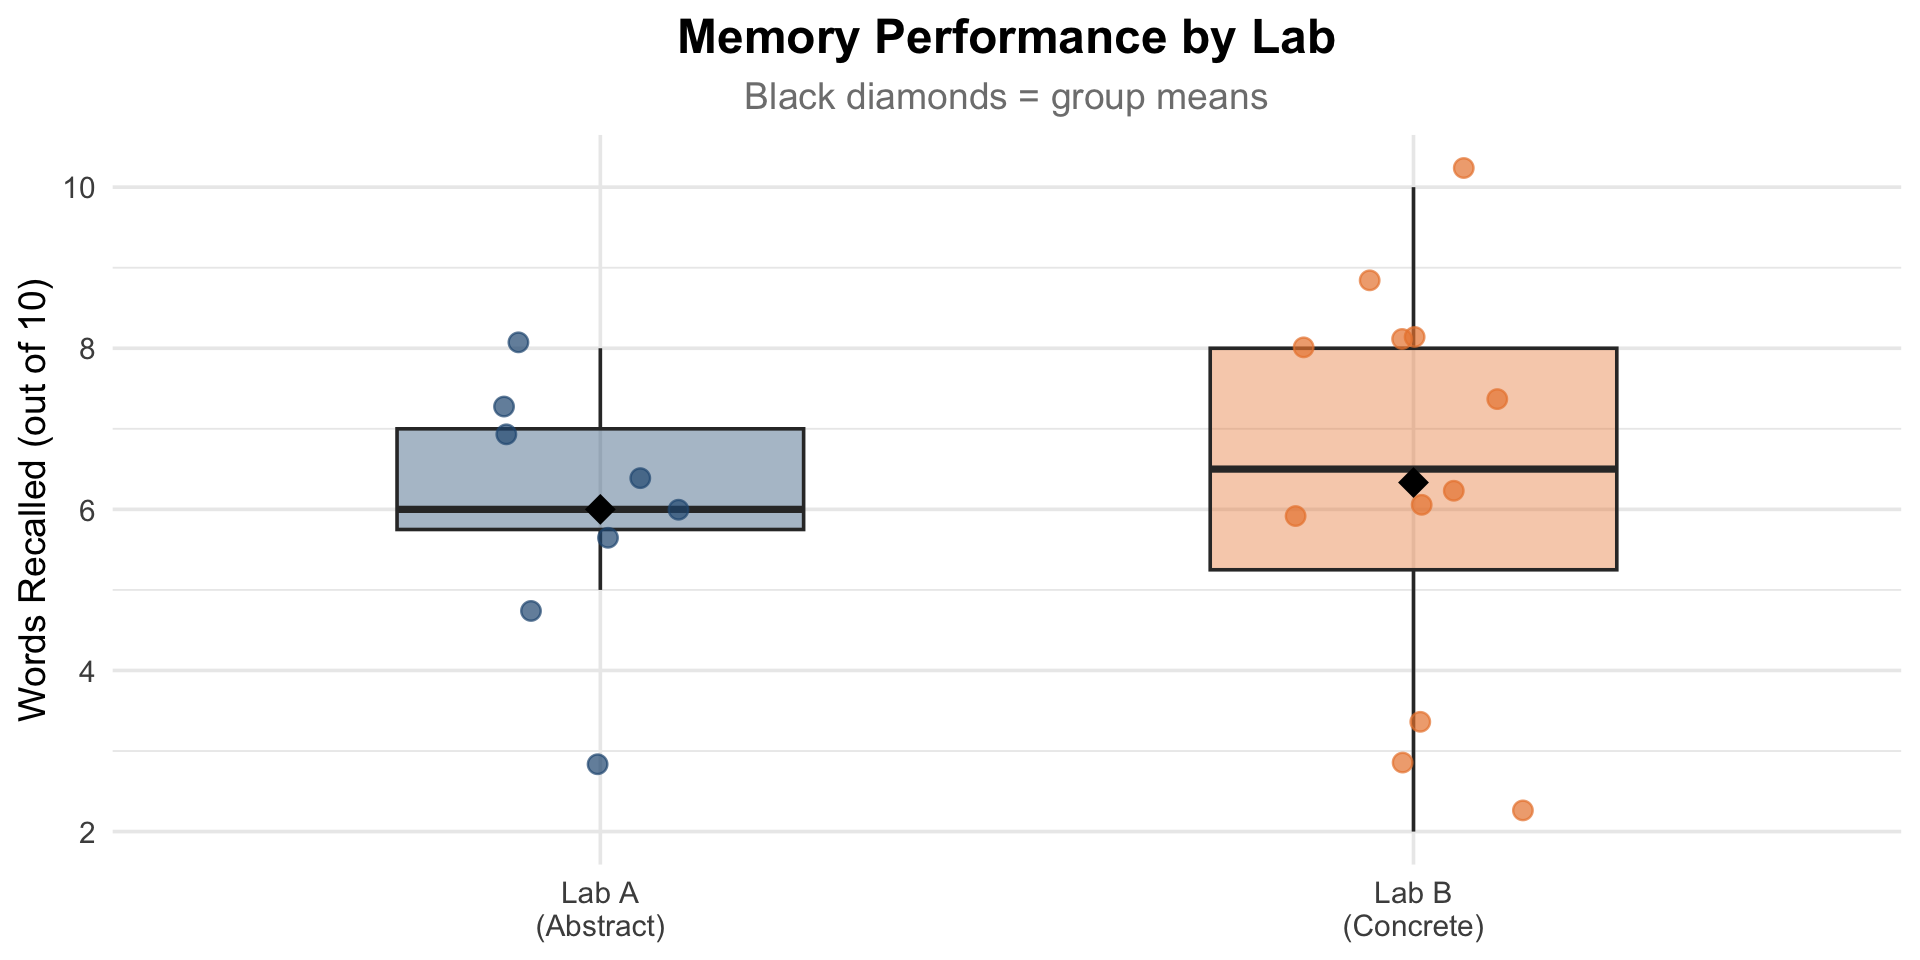
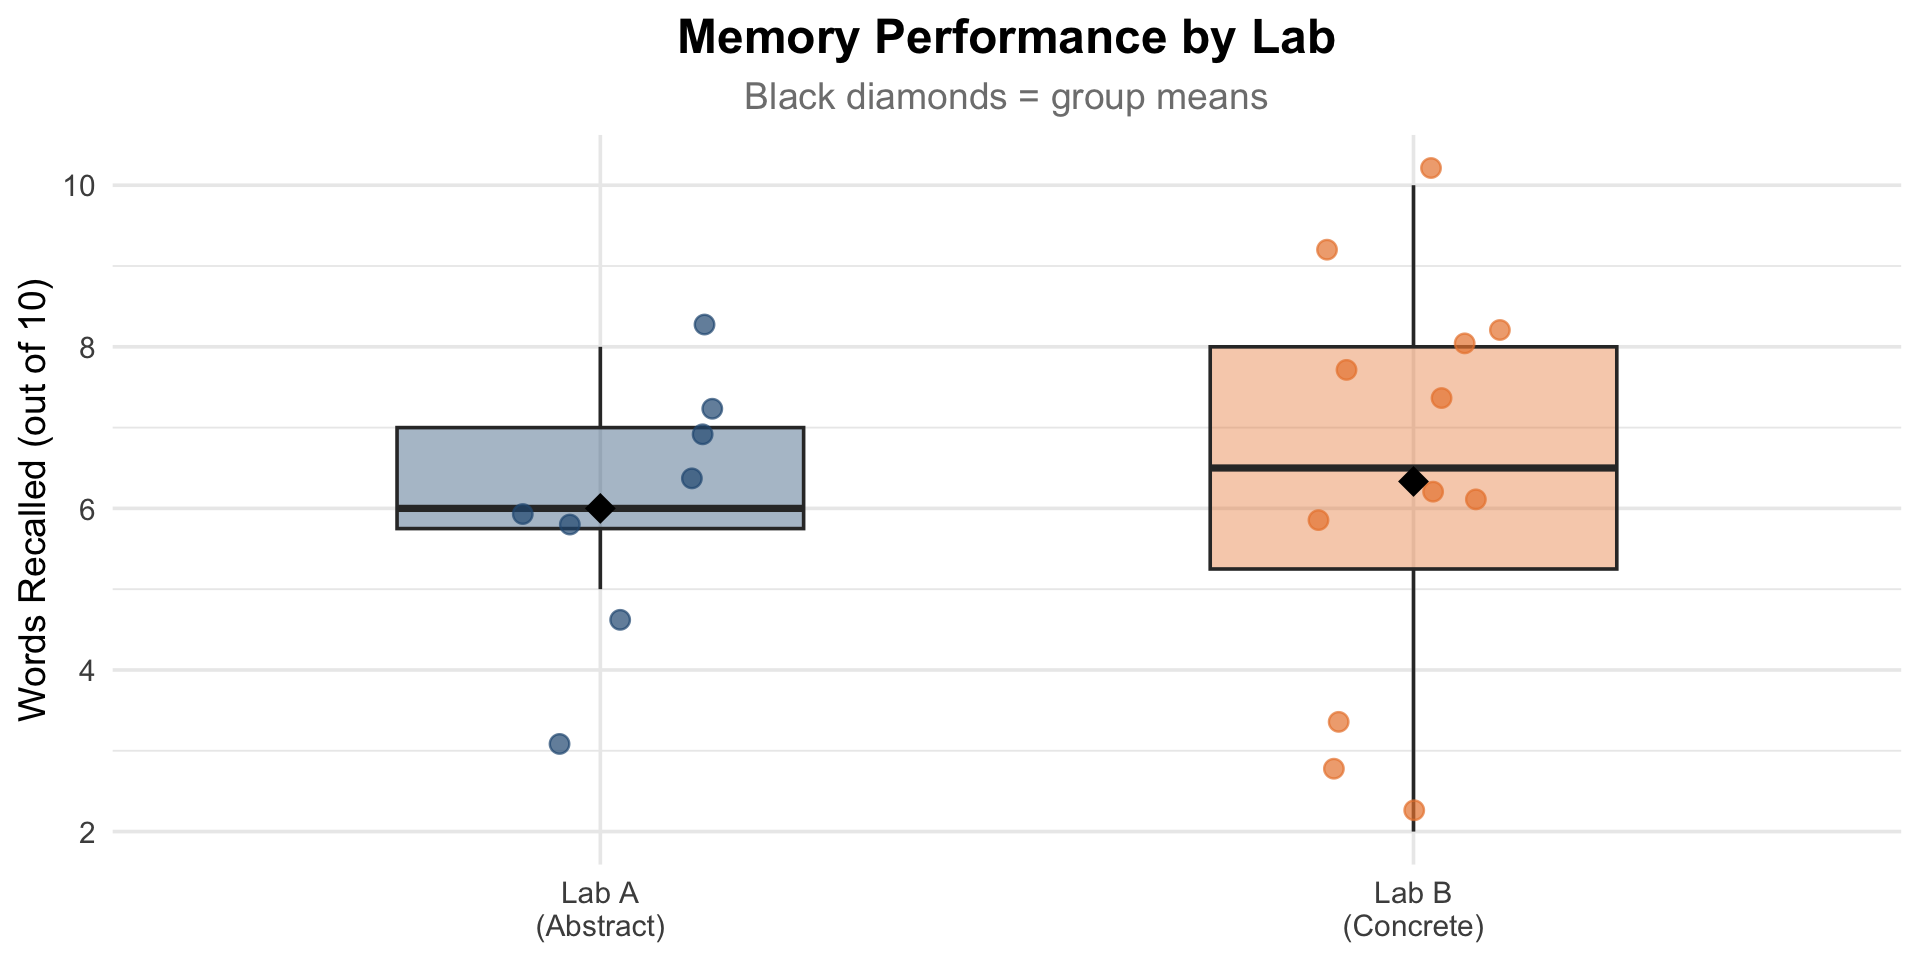
update imagery

diff --git a/docs/week12/lab/instructor-slides.html b/docs/week12/lab/instructor-slides.html
@@ -218,7 +218,7 @@ Gordon Wright
 <section id="todays-focus" class="slide level2">
 <h2>Today’s Focus</h2>
 <div class="objectives-box">
-<p><strong>This is NOT a heavy R coding session.</strong> Today is about:</p>
+<p><strong>This is NOT asking you to perform any analysis.</strong> Today is about:</p>
 <ul>
 <li>Seeing YOUR real DataLab data</li>
 <li>Identifying design types, IVs, and DVs</li>
@@ -267,7 +267,7 @@ Gordon Wright
 <section id="open-the-activity" class="slide level2">
 <h2>Open the Activity</h2>
 
[1 lines of base64/hex data omitted]
+<img data-src="images/Week12Activity.png" class="r-stretch"><p><em>Navigate to: Week 12 &gt; Lab &gt; Activity</em></p>
 </section>
 <section class="slide level2">
 

diff --git a/docs/week11/lab/instructor-slides.html b/docs/week11/lab/instructor-slides.html
@@ -284,7 +284,7 @@ Gordon Wright &amp; Bence Palfi
 <p>KNOWLEDGE</p>
 <p>SOUL</p>
 </div></div>
-<countdown-timer id="timer_6e0634d1c3a5020eedb411d8be80bb5159127ce1" minutes="00" seconds="30" class="countdown" warn-when="0" update-every="1" play-sound="false" blink-colon="false" start-immediately="false" tabindex="0" style="top: 0;right: 0;">
+<countdown-timer id="timer_fd51af6a3256b7387758804f77f891555e030942" minutes="00" seconds="30" class="countdown" warn-when="0" update-every="1" play-sound="false" blink-colon="false" start-immediately="false" tabindex="0" style="top: 0;right: 0;">
  </countdown-timer>
 </section>
 <section id="study-lab-304b-silence" class="slide level2" data-background-color="#4ECDC4">
@@ -315,7 +315,7 @@ Gordon Wright &amp; Bence Palfi
 <p>GARDEN</p>
 <p>BOTTLE</p>
 </div></div>
-<countdown-timer id="timer_6e0634d1c3a5020eedb411d8be80bb5159127ce1" minutes="00" seconds="30" class="countdown" warn-when="0" update-every="1" play-sound="false" blink-colon="false" start-immediately="false" tabindex="0" style="top: 0;right: 0;">
+<countdown-timer id="timer_fd51af6a3256b7387758804f77f891555e030942" minutes="00" seconds="30" class="countdown" warn-when="0" update-every="1" play-sound="false" blink-colon="false" start-immediately="false" tabindex="0" style="top: 0;right: 0;">
  </countdown-timer>
 </section>
 <section id="distract" class="slide level2" data-background-color="#FF6B6B">
@@ -324,14 +324,14 @@ Gordon Wright &amp; Bence Palfi
 <p>7 × 8 = ? 15 + 27 = ? 64 ÷ 8 = ?</p>
 <p>23 − 9 = ? 6 × 9 = ? 81 ÷ 9 = ?</p>
 <p>12 + 38 = ? 45 − 17 = ? 8 × 7 = ?</p>
-<countdown-timer id="timer_6e0634d1c3a5020eedb411d8be80bb5159127ce1" minutes="01" seconds="00" class="countdown" warn-when="0" update-every="1" play-sound="false" blink-colon="false" start-immediately="false" tabindex="0" style="top: 0;right: 0;">
+<countdown-timer id="timer_fd51af6a3256b7387758804f77f891555e030942" minutes="01" seconds="00" class="countdown" warn-when="0" update-every="1" play-sound="false" blink-colon="false" start-immediately="false" tabindex="0" style="top: 0;right: 0;">
  </countdown-timer>
 </section>
 <section id="recall" class="slide level2" data-background-color="#6BCB77">
 <h2>RECALL</h2>
 <p><strong>Write your words on paper!</strong></p>
 <p>Don’t look at the screen.</p>
-<countdown-timer id="timer_6e0634d1c3a5020eedb411d8be80bb5159127ce1" minutes="01" seconds="30" class="countdown" warn-when="0" update-every="1" play-sound="false" blink-colon="false" start-immediately="false" tabindex="0" style="top: 0;right: 0;">
+<countdown-timer id="timer_fd51af6a3256b7387758804f77f891555e030942" minutes="01" seconds="30" class="countdown" warn-when="0" update-every="1" play-sound="false" blink-colon="false" start-immediately="false" tabindex="0" style="top: 0;right: 0;">
  </countdown-timer>
 </section>
 <section id="record-results" class="slide level2">
@@ -424,7 +424,7 @@ Gordon Wright &amp; Bence Palfi
 </section>
 <section id="task-time-15-minutes" class="slide level2" data-background-color="#FF6B6B">
 <h2>Task Time: 15 minutes</h2>
-<countdown-timer id="timer_6e0634d1c3a5020eedb411d8be80bb5159127ce1" minutes="15" seconds="00" class="countdown" warn-when="0" update-every="1" play-sound="false" blink-colon="false" start-immediately="false" tabindex="0" style="top: 0;right: 0;">
+<countdown-timer id="timer_fd51af6a3256b7387758804f77f891555e030942" minutes="15" seconds="00" class="countdown" warn-when="0" update-every="1" play-sound="false" blink-colon="false" start-immediately="false" tabindex="0" style="top: 0;right: 0;">
  </countdown-timer>
 </section>
 <section id="move-to-next-task" class="slide level2">
@@ -434,7 +434,7 @@ Gordon Wright &amp; Bence Palfi
 </section>
 <section id="task-time-15-minutes-1" class="slide level2" data-background-color="#A55EEA">
 <h2>Task Time: 15 minutes</h2>
-<countdown-timer id="timer_6e0634d1c3a5020eedb411d8be80bb5159127ce1" minutes="15" seconds="00" class="countdown" warn-when="0" update-every="1" play-sound="false" blink-colon="false" start-immediately="false" tabindex="0" style="top: 0;right: 0;">
+<countdown-timer id="timer_fd51af6a3256b7387758804f77f891555e030942" minutes="15" seconds="00" class="countdown" warn-when="0" update-every="1" play-sound="false" blink-colon="false" start-immediately="false" tabindex="0" style="top: 0;right: 0;">
  </countdown-timer>
 </section>
 <section id="move-to-next-task-1" class="slide level2">
@@ -444,7 +444,7 @@ Gordon Wright &amp; Bence Palfi
 </section>
 <section id="task-time-15-minutes-2" class="slide level2" data-background-color="#FFD93D">
 <h2>Task Time: 15 minutes</h2>
-<countdown-timer id="timer_6e0634d1c3a5020eedb411d8be80bb5159127ce1" minutes="15" seconds="00" class="countdown" warn-when="0" update-every="1" play-sound="false" blink-colon="false" start-immediately="false" tabindex="0" style="top: 0;right: 0;">
+<countdown-timer id="timer_fd51af6a3256b7387758804f77f891555e030942" minutes="15" seconds="00" class="countdown" warn-when="0" update-every="1" play-sound="false" blink-colon="false" start-immediately="false" tabindex="0" style="top: 0;right: 0;">
  </countdown-timer>
 </section>
 <section id="move-to-next-task-2" class="slide level2">
@@ -454,7 +454,7 @@ Gordon Wright &amp; Bence Palfi
 </section>
 <section id="task-time-15-minutes-3" class="slide level2" data-background-color="#6BCB77">
 <h2>Task Time: 15 minutes</h2>
-<countdown-timer id="timer_6e0634d1c3a5020eedb411d8be80bb5159127ce1" minutes="15" seconds="00" class="countdown" warn-when="0" update-every="1" play-sound="false" blink-colon="false" start-immediately="false" tabindex="0" style="top: 0;right: 0;">
+<countdown-timer id="timer_fd51af6a3256b7387758804f77f891555e030942" minutes="15" seconds="00" class="countdown" warn-when="0" update-every="1" play-sound="false" blink-colon="false" start-immediately="false" tabindex="0" style="top: 0;right: 0;">
  </countdown-timer>
 </section>
 <section id="move-to-next-task-3" class="slide level2">
@@ -464,7 +464,7 @@ Gordon Wright &amp; Bence Palfi
 </section>
 <section id="task-time-15-minutes-final" class="slide level2" data-background-color="#4D96FF">
 <h2>Task Time: 15 minutes (Final)</h2>
-<countdown-timer id="timer_6e0634d1c3a5020eedb411d8be80bb5159127ce1" minutes="15" seconds="00" class="countdown" warn-when="0" update-every="1" play-sound="false" blink-colon="false" start-immediately="false" tabindex="0" style="top: 0;right: 0;">
+<countdown-timer id="timer_fd51af6a3256b7387758804f77f891555e030942" minutes="15" seconds="00" class="countdown" warn-when="0" update-every="1" play-sound="false" blink-colon="false" start-immediately="false" tabindex="0" style="top: 0;right: 0;">
  </countdown-timer>
 </section></section>
 <section>
